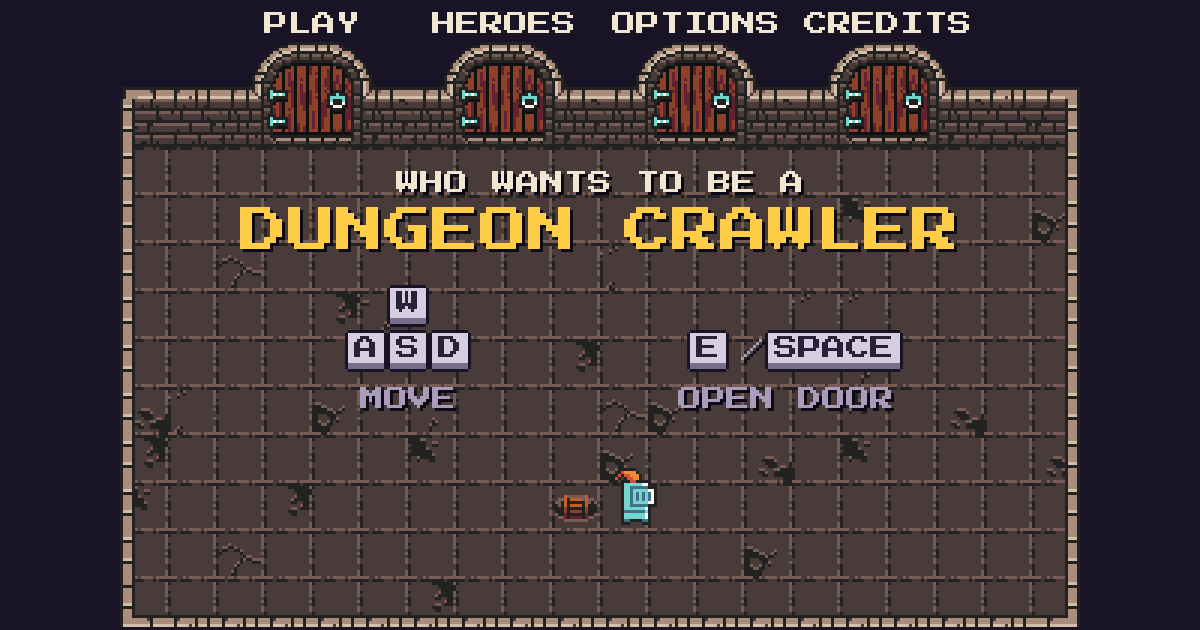
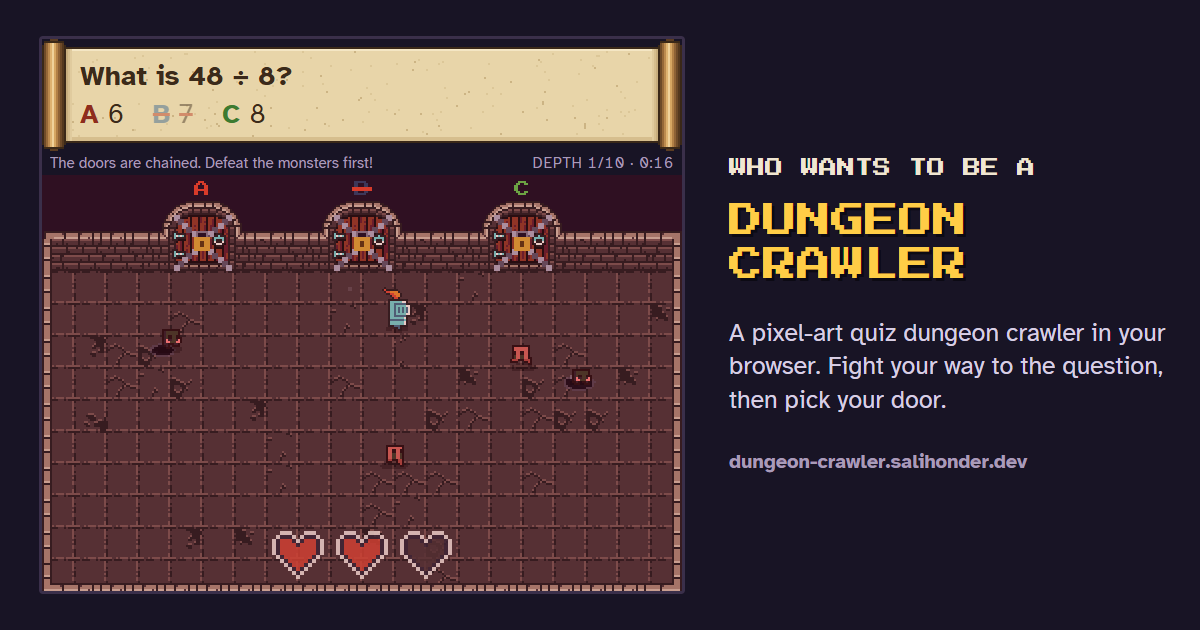
New README GIF and link preview for the current game
- The README GIF is now a 36 s highlight reel of the whole stage at 2x: a
  fight, the scroll drop, a wrong door's cursed waves, the explanation
  scroll, the ogre's projectile ring, and the treasure room (3.1 MB, each
  frame storing only the pixels that changed).
- The link preview is a 1200x630 card: a cursed-wave moment with the
  question scroll open, next to the title and a one-line pitch.
- The dropped scroll is tagged "scroll-pickup" (used by the recording script).

diff --git a/index.html b/index.html
@@ -20,7 +20,7 @@
   <meta property="og:image" content="https://dungeon-crawler.salihonder.dev/assets/social/preview.png">
   <meta property="og:image:width" content="1200">
   <meta property="og:image:height" content="630">
-  <meta property="og:image:alt" content="The title room: four doors labelled Play, Heroes, Options and Credits, the title Dungeon Crawler, and a knight.">
+  <meta property="og:image:alt" content="A room of the game: a question on a scroll with one answer crossed out, chained doors, and a knight fighting red cursed monsters. Next to it, the title: Who Wants To Be A Dungeon Crawler.">
   <meta name="twitter:card" content="summary_large_image">
 
   <link rel="stylesheet" href="style.css">

diff --git a/src/props.js b/src/props.js
@@ -48,7 +48,7 @@ export function addHatch(col, row) {
 export function addScrollPickup(at, player, onPickup) {
   const born = time();
   let spot = at;
-  const scroll = add([pos(at), z(9)]);
+  const scroll = add([pos(at), z(9), "scroll-pickup"]);
 
   const drawRolled = (y, size = 1) => {
     const PAPER = rgb(232, 213, 169);

diff --git a/README.md b/README.md
@@ -2,7 +2,7 @@
 
 A pixel-art quiz dungeon crawler that runs in the browser. Every room asks a question, and the doors are the answers. Pick the right door and you drop one level deeper into the dungeon. Pick the wrong one and it stays shut: the floor cracks open and cursed monsters crawl out.
 
-![A run: the title room, walking through the PLAY door, answering correctly, then picking a wrong door and falling into a spike pit](assets/social/gameplay.gif)
+![Highlights of a run: fighting the first room's monsters, picking up the scroll they drop, a wrong door turning into cursed waves, the explanation scroll after the right door, the ogre boss's projectile ring, and the treasure room](assets/social/gameplay.gif)
 
 **[▶ Play it in your browser](https://dungeon-crawler.salihonder.dev)**
 
